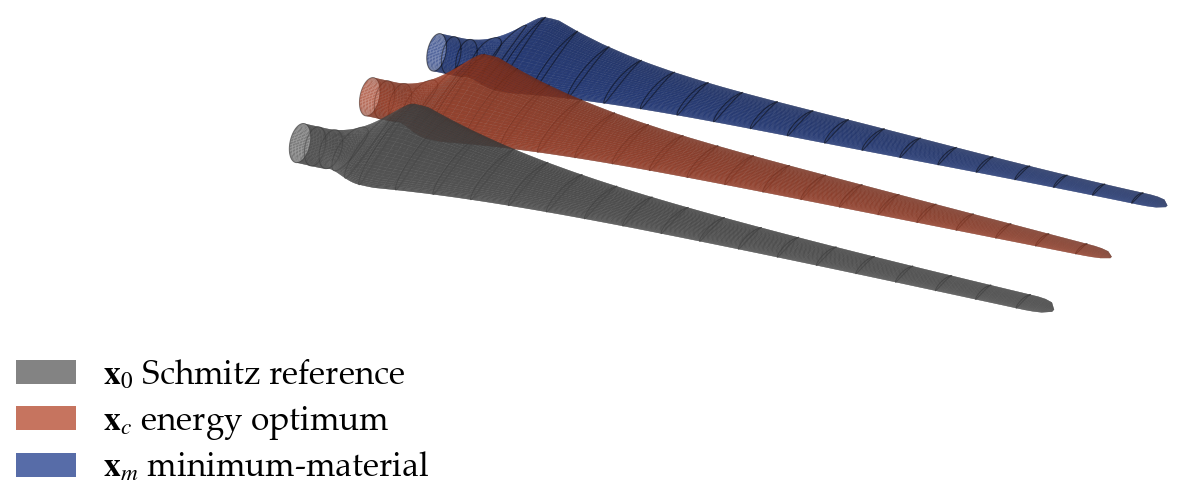
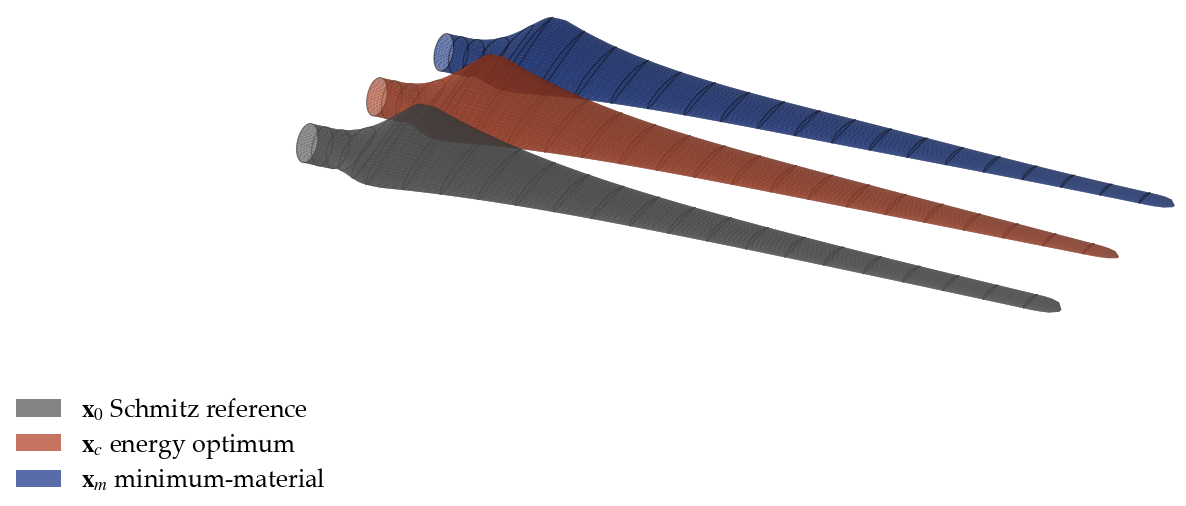
Rendered blades: size the key for the placed width

diff --git a/verification/mass_optimisation/_common.py b/verification/mass_optimisation/_common.py
@@ -854,8 +854,10 @@ def render_blades(problem, blades, out_dir):
     draw(ax, elev=24, azim=-62, legend=False, zoom=1.0, box_aspect=None)
     fig.subplots_adjust(left=-0.12, right=1.12, bottom=-0.05, top=1.2)
     # The key sits in the empty corner under the roots.
+    # The trimmed image is placed at about 1.5 times its drawn size, so the
+    # key is set small enough to print at the body-text size.
     fig.legend(handles=keys, loc="lower left", ncol=1, frameon=False,
-               bbox_to_anchor=(0.12, 0.12))
+               bbox_to_anchor=(0.12, 0.12), fontsize=6)
     figstyle.save(fig, iso_path)
     plt.close(fig)
     _trim_whitespace(iso_path)
@@ -876,8 +878,9 @@ def render_blades(problem, blades, out_dir):
     ax.set_aspect("equal")
     ax.set_axis_off()
     fig.subplots_adjust(left=0.0, right=1.0, bottom=0.12, top=1.0)
+    # Placed at about 1.3 times its drawn size: the key is set to match.
     fig.legend(handles=keys, loc="lower center", ncol=3, frameon=False,
-               bbox_to_anchor=(0.5, 0.0))
+               bbox_to_anchor=(0.5, 0.0), fontsize=6.5)
     figstyle.save(fig, plan_path)
     plt.close(fig)
     _trim_whitespace(plan_path)
